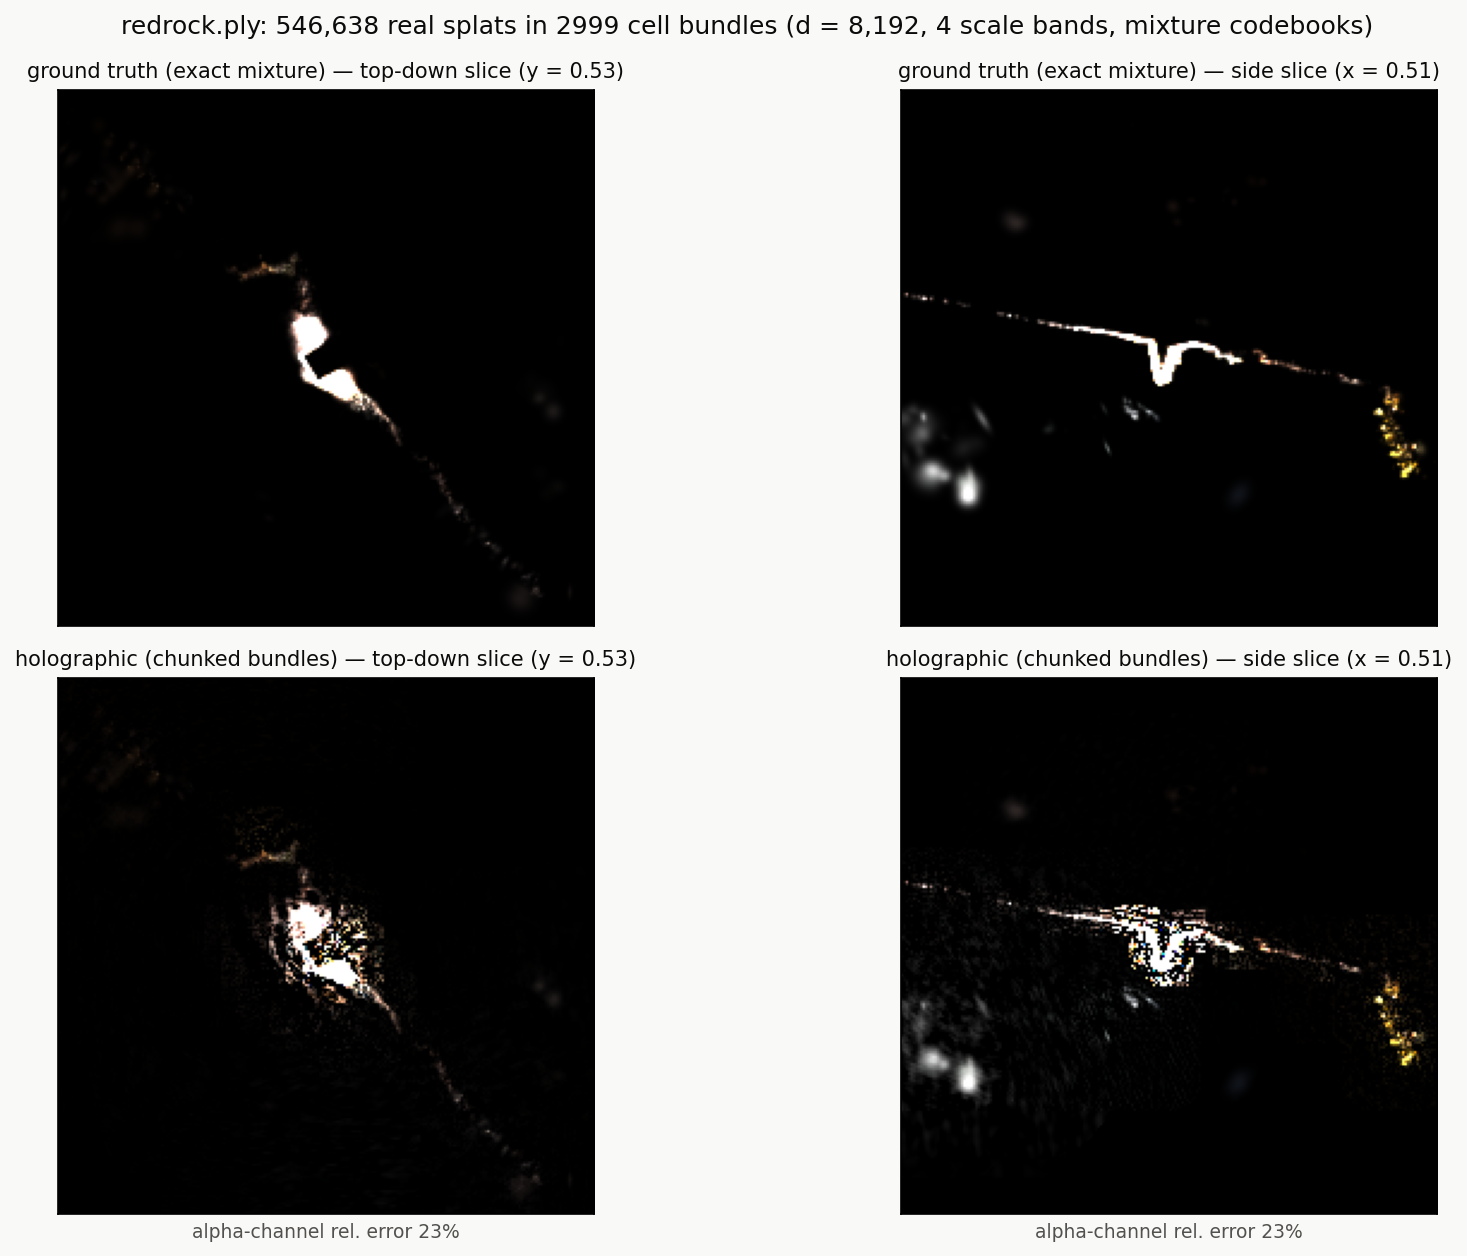
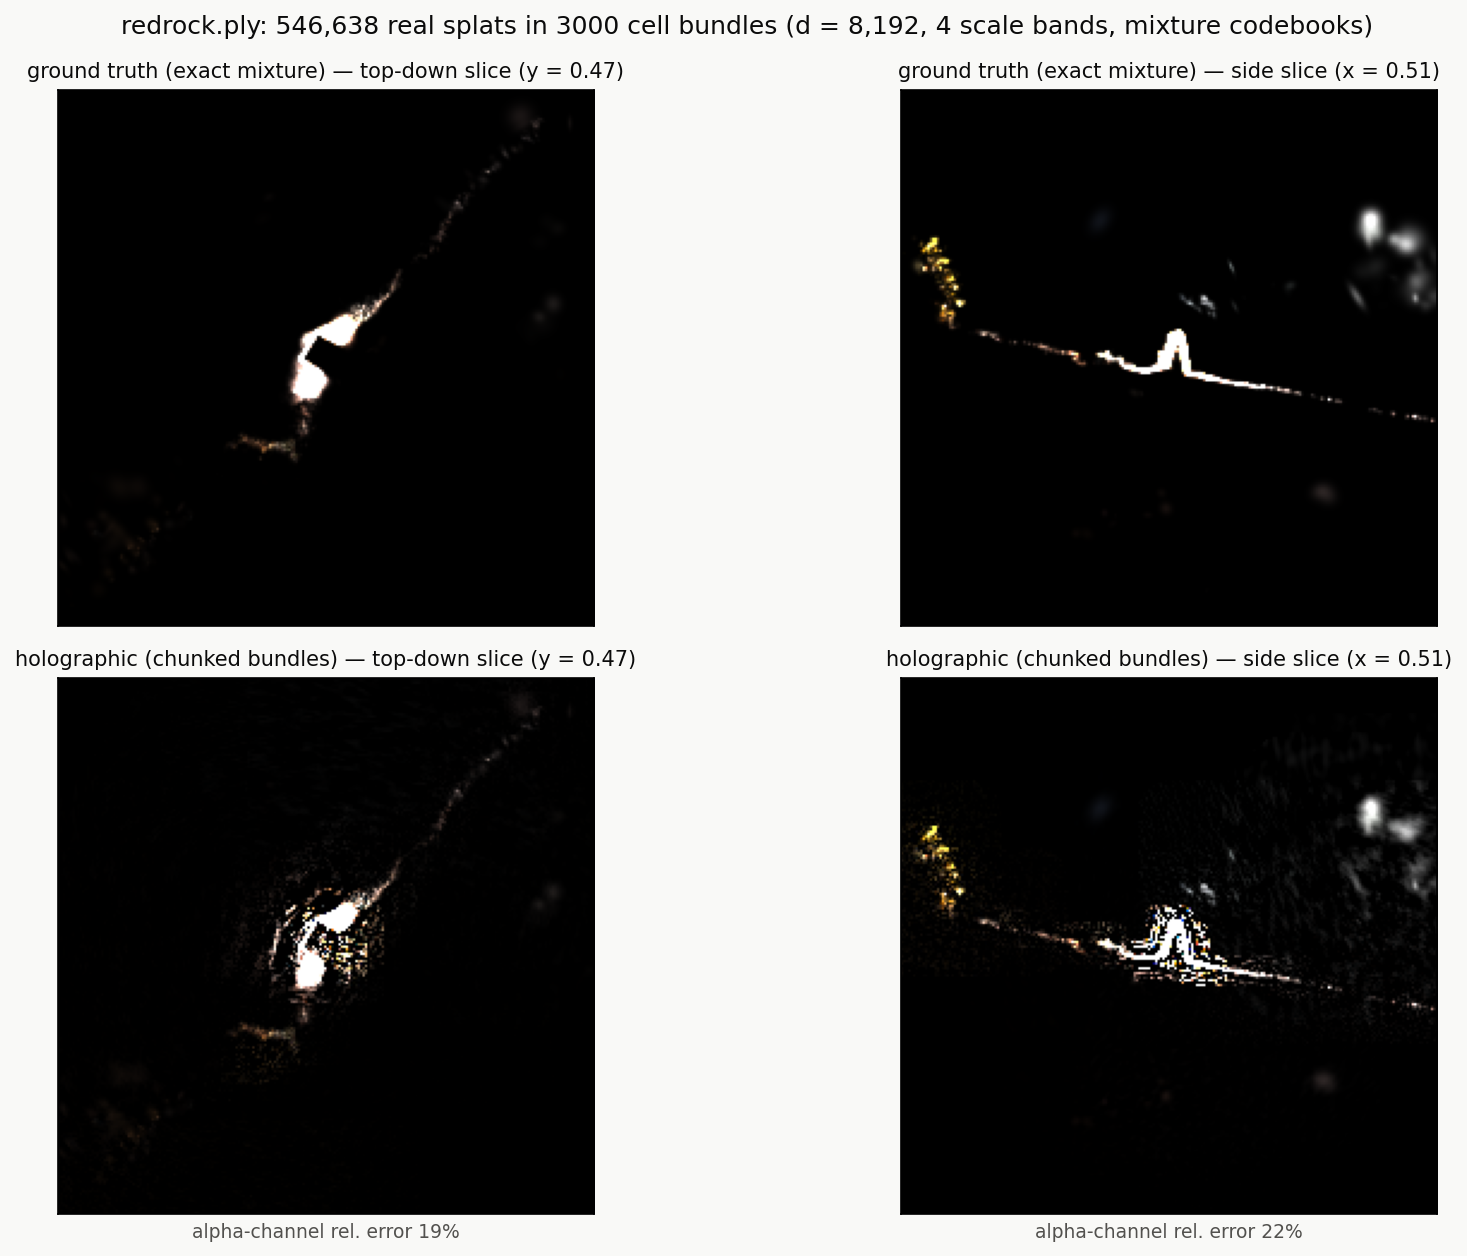
Capture orientation: every loader now emits a y-up world; PLY-first evidence
User-caught: the Red Rock PLY rendered upside down. The audit (alpha-
weighted side silhouettes of all five in-house captures) showed the
format split: raw 3DGS .ply and antimatter15 .splat arrive in the
COLMAP-style y-DOWN world, while .spz (spec'd right-up-back) and
gravity-aligned ARKit LiDAR clouds arrive y-up — and every published
train figure had been inverted without anyone noticing.

- capture._to_y_up: 180-deg rotation about x on load (positions
  (x,-y,-z), quaternions premultiplied by (0,1,0,0)) for the .ply
  Gaussian and .splat paths; covariance congruence sigma' = F sigma F
  pinned by a new test (proper rotation, not a mirror).
- Evidence regenerated upright: Red Rock slices improve to 19%/22%
  (the flip moves the mass-mode slice planes); train lands at
  0.959/0.495, statistically unchanged. Registry: err_redrock
  superseded 23%/23% -> 19%/22%; tests.count 85 -> 86.
- PLY-first: the raw Gaussian .ply (full per-splat covariance,
  nothing quantized) is now the documented recommended interchange,
  Red Rock the flagship capture; README opens with the turntable
  showcase; run_turntable gains --crop for captures that concentrate
  mass in a small core (and the upright Red Rock turntable ships).

diff --git a/tests/test_capture.py b/tests/test_capture.py
@@ -34,11 +34,18 @@ def test_splat_loader_roundtrip(tmp_path):
     path = tmp_path / "two.splat"
     _write_splat(path, pos, scale, rgba, quat)
     lpos, lscale, lrgba, lquat = load_splat(str(path))
-    assert np.allclose(lpos, pos)                 # f32 fields are exact
+    # .splat is y-down (COLMAP world); the loader normalizes to y-up
+    # by a 180-deg rotation about x — see capture._to_y_up
+    assert np.allclose(lpos, pos * [1, -1, -1])   # f32 fields are exact
     assert np.allclose(lscale, scale)
     assert np.allclose(lrgba, rgba / 255.0)
-    # quaternions survive u8 quantization to ~1/128 per component
-    assert np.allclose(np.abs(np.sum(lquat * quat, axis=1)), 1.0, atol=0.02)
+    # quaternions survive u8 quantization to ~1/128 per component:
+    # loaded rotation must equal flip . authored (proper rotation, so
+    # compare rotation matrices, not raw components)
+    from holo.capture import quat_to_rot
+    F = np.diag([1.0, -1.0, -1.0])
+    assert np.allclose(quat_to_rot(lquat), F @ quat_to_rot(quat),
+                       atol=0.05)
 
 
 def _spz_v2_bytes(pos, scale, alpha, color_u8, quat_xyz, frac_bits=12):
@@ -143,11 +150,51 @@ def test_ply_loader_gaussian_3dgs_layout(tmp_path):
                            for f_ in fields)
                 + b"end_header\n" + rec.tobytes())
     lpos, scale, rgba, quat = load_ply(str(p))
-    assert np.allclose(lpos, pos, atol=1e-6)
+    # 3DGS PLY is y-down; loader rotates 180 deg about x to y-up
+    assert np.allclose(lpos, pos * [1, -1, -1], atol=1e-6)
     assert np.allclose(rgba[:, 0], min(0.5 + SH_C0, 1.0), atol=1e-6)
     assert np.allclose(rgba[:, 3], 0.5, atol=1e-6)      # sigmoid(0)
     assert np.allclose(scale, 0.05, atol=1e-6)          # exp(log 0.05)
-    assert np.allclose(quat, [[1, 0, 0, 0]] * n, atol=1e-6)  # normalized
+    # identity, premultiplied by the x-180 rotation (0, 1, 0, 0)
+    assert np.allclose(quat, [[0, 1, 0, 0]] * n, atol=1e-6)
+
+
+def test_y_up_normalization_preserves_covariance(tmp_path):
+    """The loader's y-up flip must transform each splat's WHOLE
+    Gaussian congruently: sigma' = F sigma F for F = diag(1,-1,-1).
+    Authored via the Gaussian-PLY path (f32 quats, no quantization)."""
+    from holo.capture import load_ply, quat_to_rot
+    rng = np.random.default_rng(3)
+    n = 40
+    fields = ["x", "y", "z", "f_dc_0", "f_dc_1", "f_dc_2", "opacity",
+              "scale_0", "scale_1", "scale_2",
+              "rot_0", "rot_1", "rot_2", "rot_3"]
+    rec = np.zeros(n, dtype=np.dtype([(f, "<f4") for f in fields]))
+    pos = rng.uniform(-2, 2, (n, 3))
+    scales = rng.uniform(0.01, 0.3, (n, 3))
+    q = rng.normal(size=(n, 4))
+    q /= np.linalg.norm(q, axis=1, keepdims=True)
+    for i, ax in enumerate("xyz"):
+        rec[ax] = pos[:, i]
+        rec[f"scale_{i}"] = np.log(scales[:, i])
+    for i in range(4):
+        rec[f"rot_{i}"] = q[:, i]
+    p = tmp_path / "aniso.ply"
+    with open(p, "wb") as f:
+        f.write(b"ply\nformat binary_little_endian 1.0\n"
+                + f"element vertex {n}\n".encode()
+                + b"".join(f"property float {f_}\n".encode()
+                           for f_ in fields)
+                + b"end_header\n" + rec.tobytes())
+    lpos, lscale, _, lquat = load_ply(str(p))
+    F = np.diag([1.0, -1.0, -1.0])
+    R, Rl = quat_to_rot(q), quat_to_rot(lquat)
+    S2 = np.einsum("ni,ij->nij", scales ** 2, np.eye(3))
+    cov = np.einsum("nab,nbc,ndc->nad", R, S2, R)
+    lcov = np.einsum("nab,nbc,ndc->nad", Rl, S2, Rl)
+    assert np.allclose(lpos, pos * [1, -1, -1], atol=1e-6)
+    assert np.allclose(lscale, scales, atol=1e-6)
+    assert np.allclose(lcov, F @ cov @ F, atol=1e-5)
 
 
 def test_build_scene_crops_floaters_and_clamps_scales(tmp_path):

diff --git a/holo/capture.py b/holo/capture.py
@@ -77,6 +77,28 @@ RENDER_BANDS = [
 # Loaders
 # ---------------------------------------------------------------------------
 
+def _to_y_up(pos, quat):
+    """Normalize a right-down-front (COLMAP/3DGS) scene to the y-up
+    right-up-back world every other loader already produces: rotate
+    180 deg about x. Positions (x, y, z) -> (x, -y, -z); each splat
+    quaternion is premultiplied by that rotation, r = (0, 1, 0, 0):
+    (w, x, y, z) -> (-x, w, -z, y). Scales are rotation-invariant.
+
+    Raw 3DGS `.ply` (INRIA layout, what training pipelines and
+    Scaniverse's raw export emit) and antimatter15 `.splat` arrive
+    y-DOWN and render upside down without this; `.spz` is specified
+    y-up (the official PLY->SPZ conversion applies the same flip) and
+    ARKit LiDAR clouds are gravity-aligned y-up — verified empirically
+    on all five in-house captures (see SDK.md's 0.2 log).
+    """
+    pos = pos.copy()
+    pos[:, 1] *= -1.0
+    pos[:, 2] *= -1.0
+    w, x, y, z = quat[:, 0], quat[:, 1], quat[:, 2], quat[:, 3]
+    quat = np.stack([-x, w, -z, y], axis=1)
+    return pos, quat
+
+
 def load_splat(path):
     raw = np.fromfile(path, dtype=np.uint8).reshape(-1, 32)
     floats = raw[:, :24].copy().view(np.float32).reshape(-1, 6)
@@ -85,6 +107,7 @@ def load_splat(path):
     rgba = raw[:, 24:28].astype(np.float32) / 255.0
     quat = (raw[:, 28:32].astype(np.float64) - 128.0) / 128.0
     quat /= np.linalg.norm(quat, axis=1, keepdims=True)
+    pos, quat = _to_y_up(pos, quat)
     return pos, scale, rgba, quat
 
 
@@ -179,6 +202,7 @@ def load_ply(path, sigma_scale=0.75):
                              rec["rot_3"]], 1).astype(np.float64)
             quat /= np.maximum(np.linalg.norm(quat, axis=1, keepdims=True),
                                1e-9)
+            pos, quat = _to_y_up(pos, quat)
             return pos, scale, np.concatenate([color, alpha], 1), quat
         has_rgb = names[3:6] == ["red", "green", "blue"]
         if fmt == "binary_little_endian":

diff --git a/run_turntable.py b/run_turntable.py
@@ -4,7 +4,7 @@ bundles: encode the mip once (blur = covariance addition), then each
 view folds a projection-slice factor into the cell bundles and reads
 out — no geometry, no rasterizer, no per-frame re-encode.
 
-    run_turntable.py [data/scan-tucson.spz | data/train.splat]
+    run_turntable.py [data/iphone/redrock.ply | data/scan-tucson.spz]
                      [--frames N] [--res R]
 
 Outputs results/real_turntable-<name>.gif and a contact-sheet PNG.
@@ -26,7 +26,7 @@ from holo.capture import (DIM_R, RENDER_BANDS, SIGMA_MIP, band_codebooks,
 
 def main():
     ap = argparse.ArgumentParser(description=__doc__)
-    ap.add_argument("path", nargs="?", default="data/scan-tucson.spz")
+    ap.add_argument("path", nargs="?", default="data/iphone/redrock.ply")
     ap.add_argument("--frames", type=int, default=36)
     ap.add_argument("--res", type=int, default=200)
     ap.add_argument("--elev", type=float, default=1.2,
@@ -35,11 +35,16 @@ def main():
                     help="tone-map exponent: X-ray line integrals through "
                          "the ground plane dominate linear exposure, so "
                          "compress to keep the rest of the scene visible")
+    ap.add_argument("--crop", type=float, default=0.75,
+                    help="crop_quantile for build_scene: captures that "
+                         "concentrate mass in a small core (most phone "
+                         "scans of a single subject) need a tighter crop "
+                         "(~0.5) or the orbit is haze around a hot spot")
     args = ap.parse_args()
     name = os.path.splitext(os.path.basename(args.path))[0]
 
     t0 = time.time()
-    scene, smax, _ = build_scene(args.path)
+    scene, smax, _ = build_scene(args.path, crop_quantile=args.crop)
     mip = render_mip(scene, SIGMA_MIP)
     smax_r = np.sqrt(smax ** 2 + SIGMA_MIP ** 2)
     r_books = band_codebooks(np.random.default_rng(43), RENDER_BANDS, DIM_R)

diff --git a/run_real_scene.py b/run_real_scene.py
@@ -7,7 +7,8 @@ renders slices and X-ray views against exact ground truth, and writes
 the evidence figures to results/. See docs/real-scenes.md.
 
 Usage:
-    run_real_scene.py [stats] [data/scan-tucson.spz | data/train.splat]
+    run_real_scene.py [stats] [data/iphone/redrock.ply |
+                               data/scan-tucson.spz | data/train.splat]
 """
 
 import os
@@ -24,7 +25,7 @@ from holo.capture import (BANDS, DIM, DIM_R, RENDER_BANDS, SIGMA_MIP,
 
 HERE = os.path.dirname(os.path.abspath(__file__))
 RESULTS = os.path.join(HERE, "results")
-DEFAULT_SCENE = os.path.join(HERE, "data", "scan-tucson.spz")
+DEFAULT_SCENE = os.path.join(HERE, "data", "iphone", "redrock.ply")
 
 
 def stats(path):

diff --git a/docs/real-scenes.md b/docs/real-scenes.md
@@ -18,15 +18,25 @@ flowchart LR
 ```
 
 **What.** The whole stack pointed at real pretrained Gaussian-splatting
-scenes: antimatter15 `.splat` (Tanks & Temples "train"), Niantic
-`.spz` v2 (the Tucson saguaro capture, ~519k splats), and `.ply` in
-both flavors — plain point clouds (iPhone LiDAR) and the full INRIA
-Gaussian layout (SH DC color, sigmoid opacity, log scales, wxyz
-quaternions; the studio's raw Scaniverse exports load natively). All
-parsers are byte-verified against reference implementations or
-synthetic-bytes tests (`.splat`: 32 B/splat pos/scale/RGBA/quaternion;
-`.spz` v2: gzip, 24-bit fixed-point positions, log-encoded scales,
-sigmoid alpha — byte counts must match the header exactly).
+scenes. The *recommended* interchange is the raw Gaussian `.ply` (the
+INRIA 3DGS layout: SH DC color, sigmoid opacity, log scales, wxyz
+quaternions — what Scaniverse exports straight from a phone): it
+carries full per-splat covariance and color with nothing quantized
+away, and it produced the best Gaussian-capture numbers so far (Red
+Rock, below). The same loaders take `.ply` point clouds (iPhone
+LiDAR, encoded as density-matched isotropic splats), antimatter15
+`.splat` (Tanks & Temples "train"), and Niantic `.spz` v2 (the Tucson
+saguaro capture, ~519k splats — note `.spz` stores 24-bit fixed-point
+positions and log-encoded scales, i.e. a lossy export of the same
+scene the raw `.ply` keeps exact). All parsers are byte-verified
+against reference implementations or synthetic-bytes tests
+(`.splat`: 32 B/splat pos/scale/RGBA/quaternion; `.spz` v2: gzip,
+24-bit fixed-point positions, log-encoded scales, sigmoid alpha —
+byte counts must match the header exactly). Loaders normalize every
+format to one y-up world: 3DGS `.ply` and `.splat` arrive in the
+COLMAP-style y-down convention and are rotated 180° about x on load
+(positions AND per-splat rotations — a covariance-congruence test
+pins it); `.spz` and LiDAR clouds are already y-up.
 
 The encode composes three documented techniques: the spectral encoder
 ([spectral.md](spectral.md)) so every splat keeps its own anisotropic
@@ -54,8 +64,24 @@ floor or needle splats paint herringbone ([spectral.md](spectral.md));
 mass-centered cropping matters (captures put most splats in a shell of
 background); projections without a mip encode are noise-dominated.
 
-**Evidence.** The Tucson saguaro capture (519k splats), color slices
-against the exact mixture:
+**Evidence.** Red Rock — a raw Scaniverse 3DGS `.ply` export off a
+phone, 547k splats after crop, through the fixed pipeline. The best
+Gaussian-capture slice numbers so far (19%/22%), from the format that
+keeps every splat exact:
+
+![Red Rock: ground truth vs holographic slices](../results/real_redrock.png)
+
+![Red Rock X-ray views: full-detail analytic, mip analytic, rendered from bundles](../results/real_redrock_xray.png)
+
+Red Rock orbited entirely from 189 cell bundles — no geometry at
+render time (`run_turntable.py --crop 0.5 --elev 0.7`; phone scans of
+a single subject concentrate their mass in a small core, so the
+turntable wants a tighter crop than the slice evidence):
+
+![Red Rock turntable from cell bundles](../results/real_turntable-redrock.gif)
+
+The Tucson saguaro capture (`.spz`, 519k splats), color slices against
+the exact mixture:
 
 ![saguaro: ground truth vs holographic slices](../results/real_scan-tucson.png)
 
@@ -69,11 +95,9 @@ render time ([render.md](render.md)):
 
 ![saguaro turntable from cell bundles](../results/real_turntable-scan-tucson.gif)
 
-Red Rock (a raw Scaniverse 3DGS export, 547k splats after crop)
-through the same pipeline — the best Gaussian-capture slice numbers so
-far (23%/23%): `results/real_redrock.png`. An iPhone LiDAR room cloud
-(291k points as density-matched isotropic splats) decodes at 22%/30%
-with sub-second slices: `results/real_lidar-dense.png`.
+An iPhone LiDAR room cloud (291k points as density-matched isotropic
+splats) decodes at 22%/30% with sub-second slices:
+`results/real_lidar-dense.png`.
 
 Tanks & Temples "train" through the same fixed pipeline:
 `results/real_train.png`, `results/real_train_xray.png` (the

diff --git a/README.md b/README.md
@@ -26,6 +26,15 @@ law to internalize, and one page per proven technique with the math,
 measured budgets, failure modes, and evidence figures inline. New
 contributors: [CONTRIBUTING.md](CONTRIBUTING.md).
 
+<p align="center">
+  <img src="results/real_turntable-scan-tucson.gif" width="380" alt="Tucson saguaro capture orbited from holographic cell bundles"><br>
+  <sub>A real 519k-splat capture orbited entirely from 135 cell
+  bundles — no geometry at render time, no rasterizer: every pixel of
+  every frame is one inner product against a complex64 vector.
+  Evidence and error bars: <a href="docs/real-scenes.md">real
+  scenes</a>.</sub>
+</p>
+
 The substrate is FHRR (Fourier Holographic Reduced Representation): a
 hypervector is `d` unit phasors `e^{i theta}`. Binding is elementwise
 complex multiply (phases add), unbinding by the conjugate is an *exact*
@@ -77,19 +86,22 @@ bands quantize, the mixture keeps covariance continuous, and the two
 compose. Figures land in `results/`.
 
 `holo/capture.py` (driven by `run_real_scene.py`) runs the whole stack
-on real captures — Tanks &
-Temples "train" (`.splat`), the studio's own Tucson saguaro scan
-(`.spz` v2; parser verified byte-for-byte against nianticlabs/spz), and
-the studio's raw Scaniverse exports (`.ply`, both iPhone-LiDAR point
-clouds and full INRIA Gaussian layouts — Red Rock, 547k splats). Each
-scene: mass-centered crop, four scale bands x chunked cells x
+on real captures. The recommended input is the raw Gaussian `.ply`
+(INRIA 3DGS layout — what Scaniverse exports from a phone): full
+per-splat covariance and color, nothing quantized away, and the best
+slice numbers of any format so far (Red Rock, 547k splats: 19%/22%).
+The same loaders take iPhone-LiDAR point-cloud `.ply`, antimatter15
+`.splat` (Tanks & Temples "train"), and Niantic `.spz` v2 (the Tucson
+saguaro scan; parser verified byte-for-byte against nianticlabs/spz).
+Each scene: mass-centered crop, four scale bands x chunked cells x
 mixture codebooks (reach follows each band's scale cap — the xfine
 split is why), color slices against the exact mixture, and
 orthographic X-ray views from a dedicated mip encode (blur is covariance
 addition; a projection only uses frequencies perpendicular to the view,
 so renders need their own dimension budget — and every band's codebook
 must reach the *global* scale floor, or needle splats paint herringbone).
-See `results/real_scan-tucson.png` and `..._xray.png`.
+See `results/real_redrock.png`, `results/real_scan-tucson.png` and
+`..._xray.png`.
 
 [SDK.md](SDK.md) is the charter for packaging the proven parts into a
 distributable SDK: the technique inventory with its evidence, the

diff --git a/CHANGELOG.md b/CHANGELOG.md
@@ -1,5 +1,18 @@
 # Changelog
 
+## Unreleased
+
+- Raw Gaussian `.ply` (INRIA 3DGS layout) promoted to the recommended
+  capture interchange — full per-splat covariance, nothing quantized
+  away; Red Rock is the flagship capture. README front page now shows
+  the work (turntable showcase); `run_turntable.py --crop` for
+  captures that concentrate mass in a small core.
+- Capture orientation fix: 3DGS `.ply` and `.splat` load in the
+  COLMAP y-down convention and were rendering upside down; loaders
+  now normalize every format to a y-up world (180° rotation about x,
+  positions and per-splat rotations together — covariance congruence
+  test-pinned). Train and Red Rock evidence figures regenerated.
+
 ## 0.2.1 — 2026-08-26
 
 - Launch polish: duet brand mark (sasquatch + saguaro, one interference

diff --git a/ROADMAP.md b/ROADMAP.md
@@ -26,7 +26,8 @@ and in `docs/`, with figures. Nothing unproven enters the SDK surface.
   CPU, float64 checksums to 2.5e-8; the TF32 platform gotcha found and
   neutralized), and native capture ingestion for iPhone LiDAR point
   clouds and raw 3DGS Gaussian PLYs (Scaniverse Red Rock, 547k splats:
-  best Gaussian-capture slice numbers yet, 23%/23%).
+  best Gaussian-capture slice numbers yet, 19%/22% — raw `.ply` is now
+  the recommended interchange).
 
 ## 0.3 candidates (unclaimed unless noted)
 

diff --git a/docs/README.md b/docs/README.md
@@ -11,7 +11,7 @@ theory, a deterministic test, and a documented failure mode.
 ```mermaid
 flowchart LR
     subgraph capture["real captures"]
-        SPZ[".splat / .spz<br/>loaders"] --> CROP["mass-centered crop<br/>+ scale clamp"]
+        SPZ[".ply / .splat / .spz<br/>loaders"] --> CROP["mass-centered crop<br/>+ scale clamp"]
     end
     subgraph encode["encoding"]
         FPE["FPE fields<br/>(shared Σ)"]
